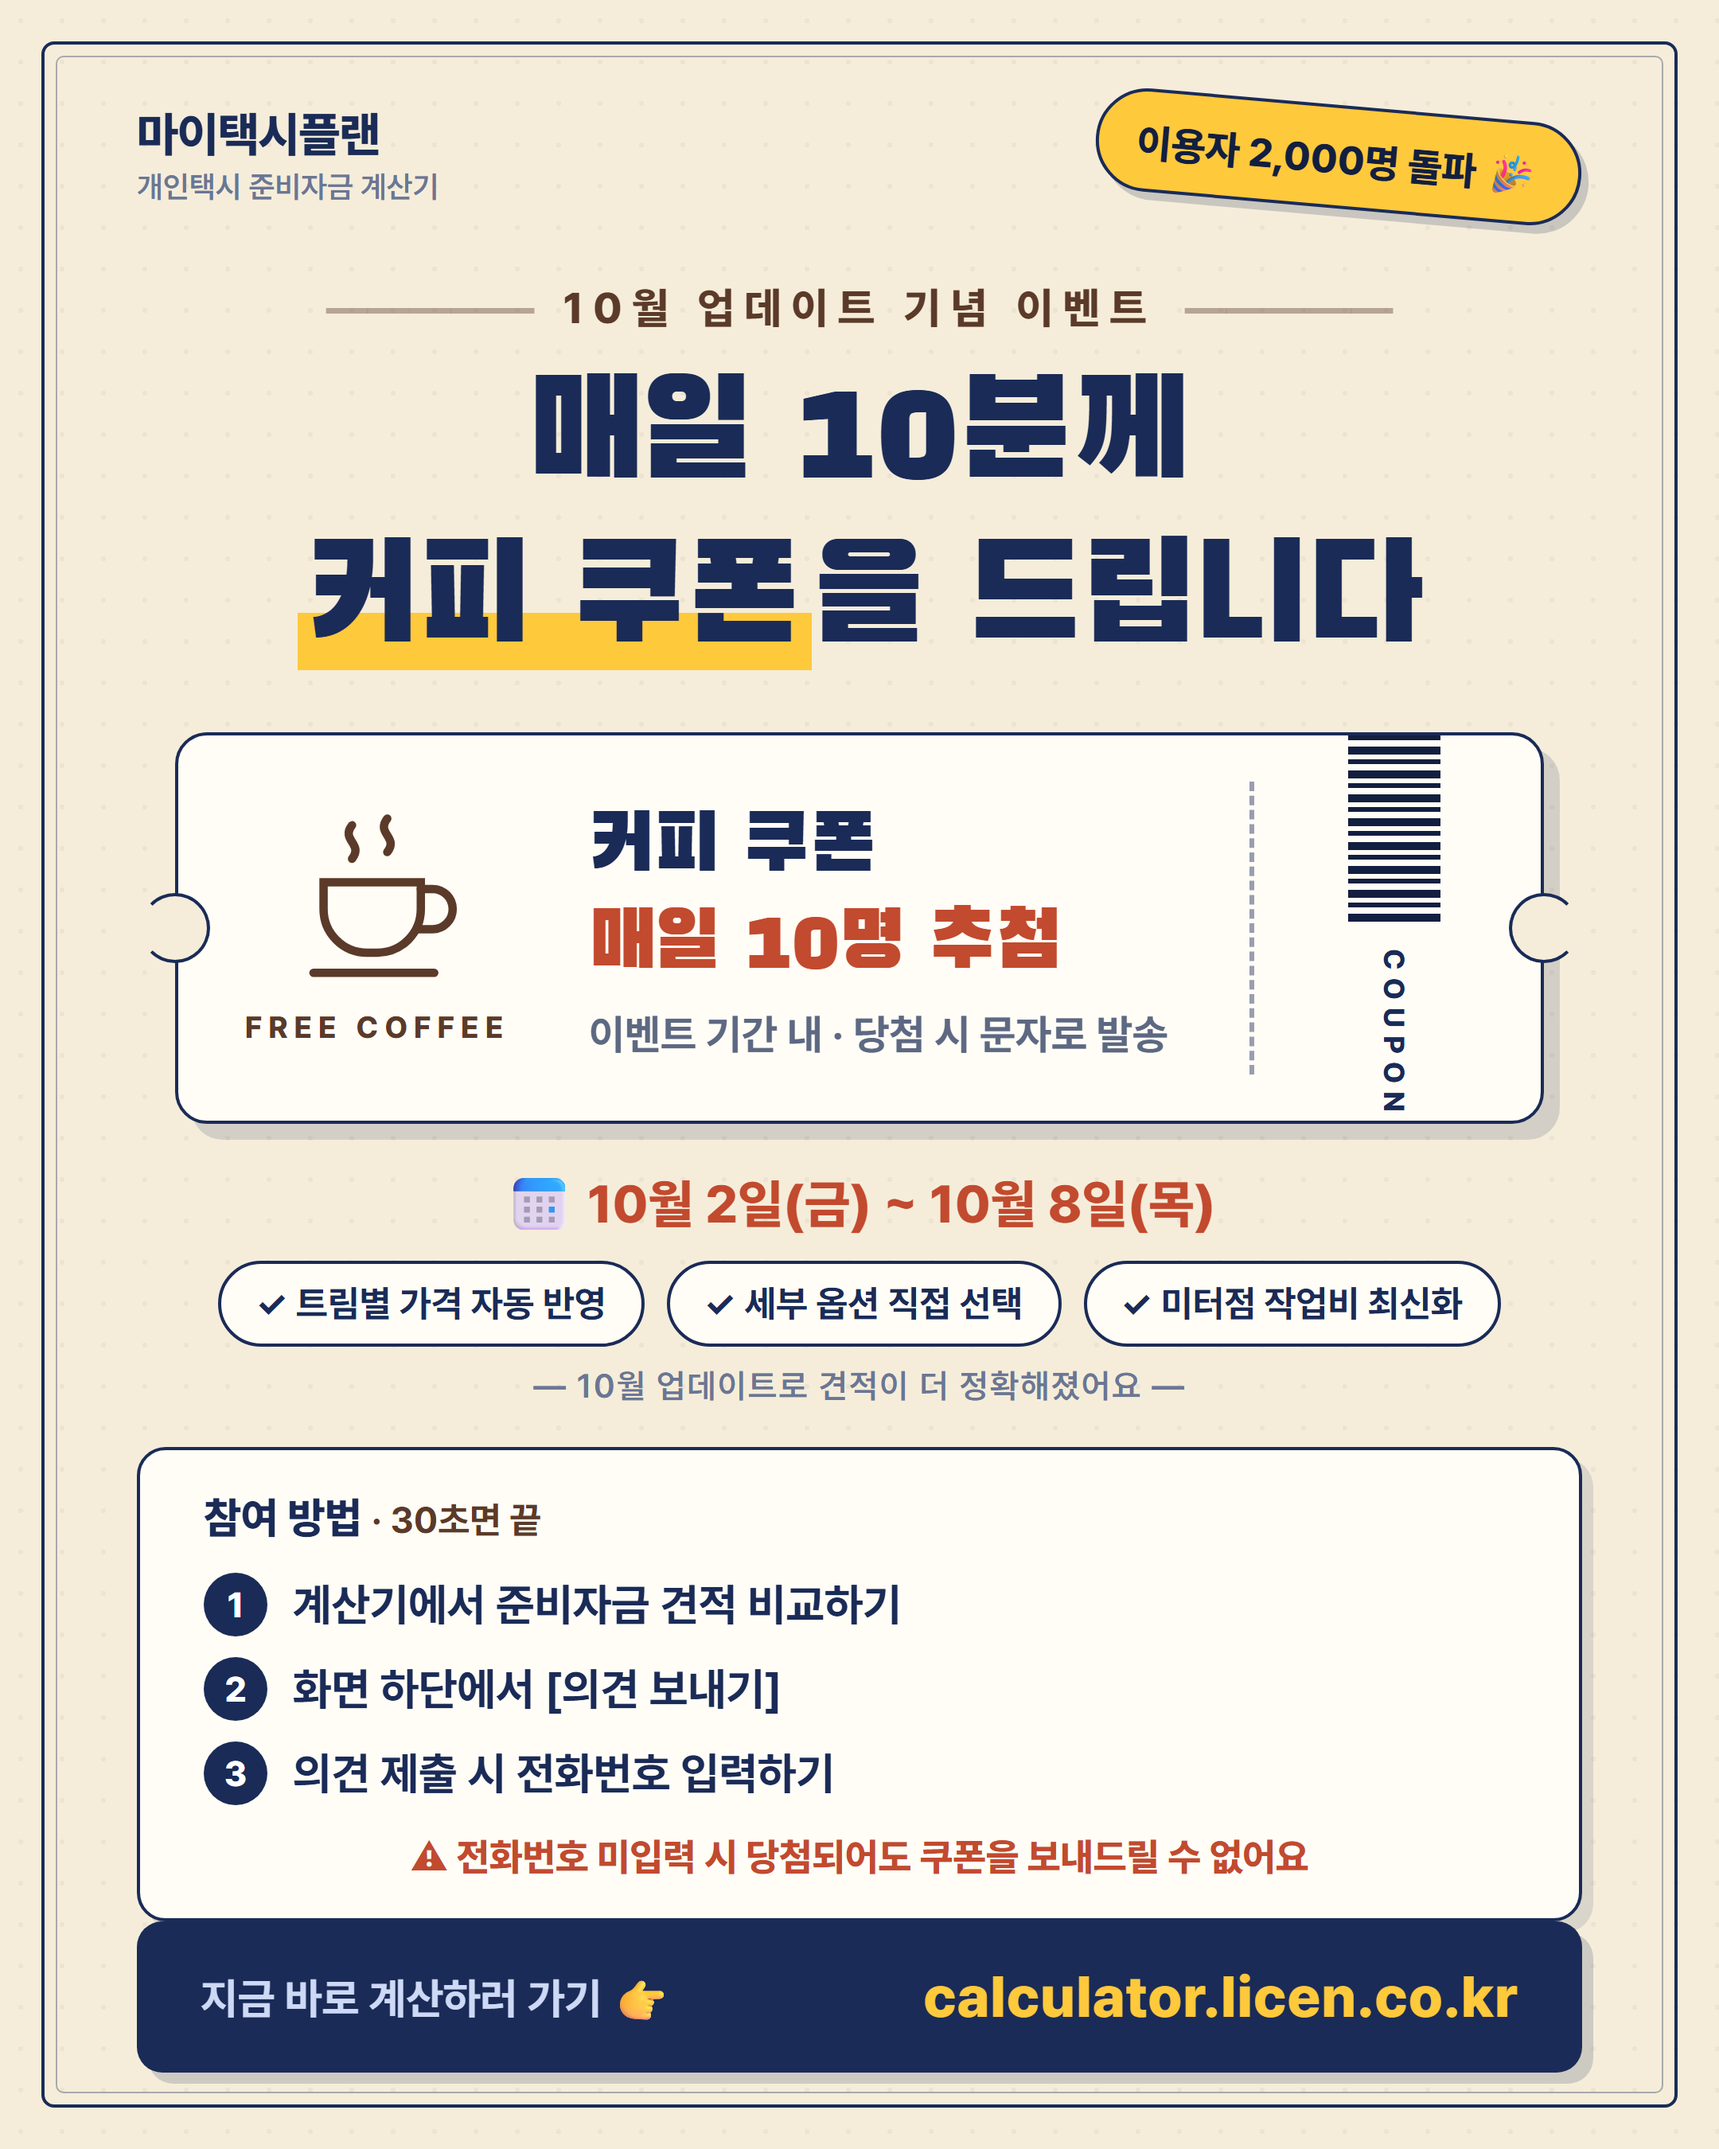
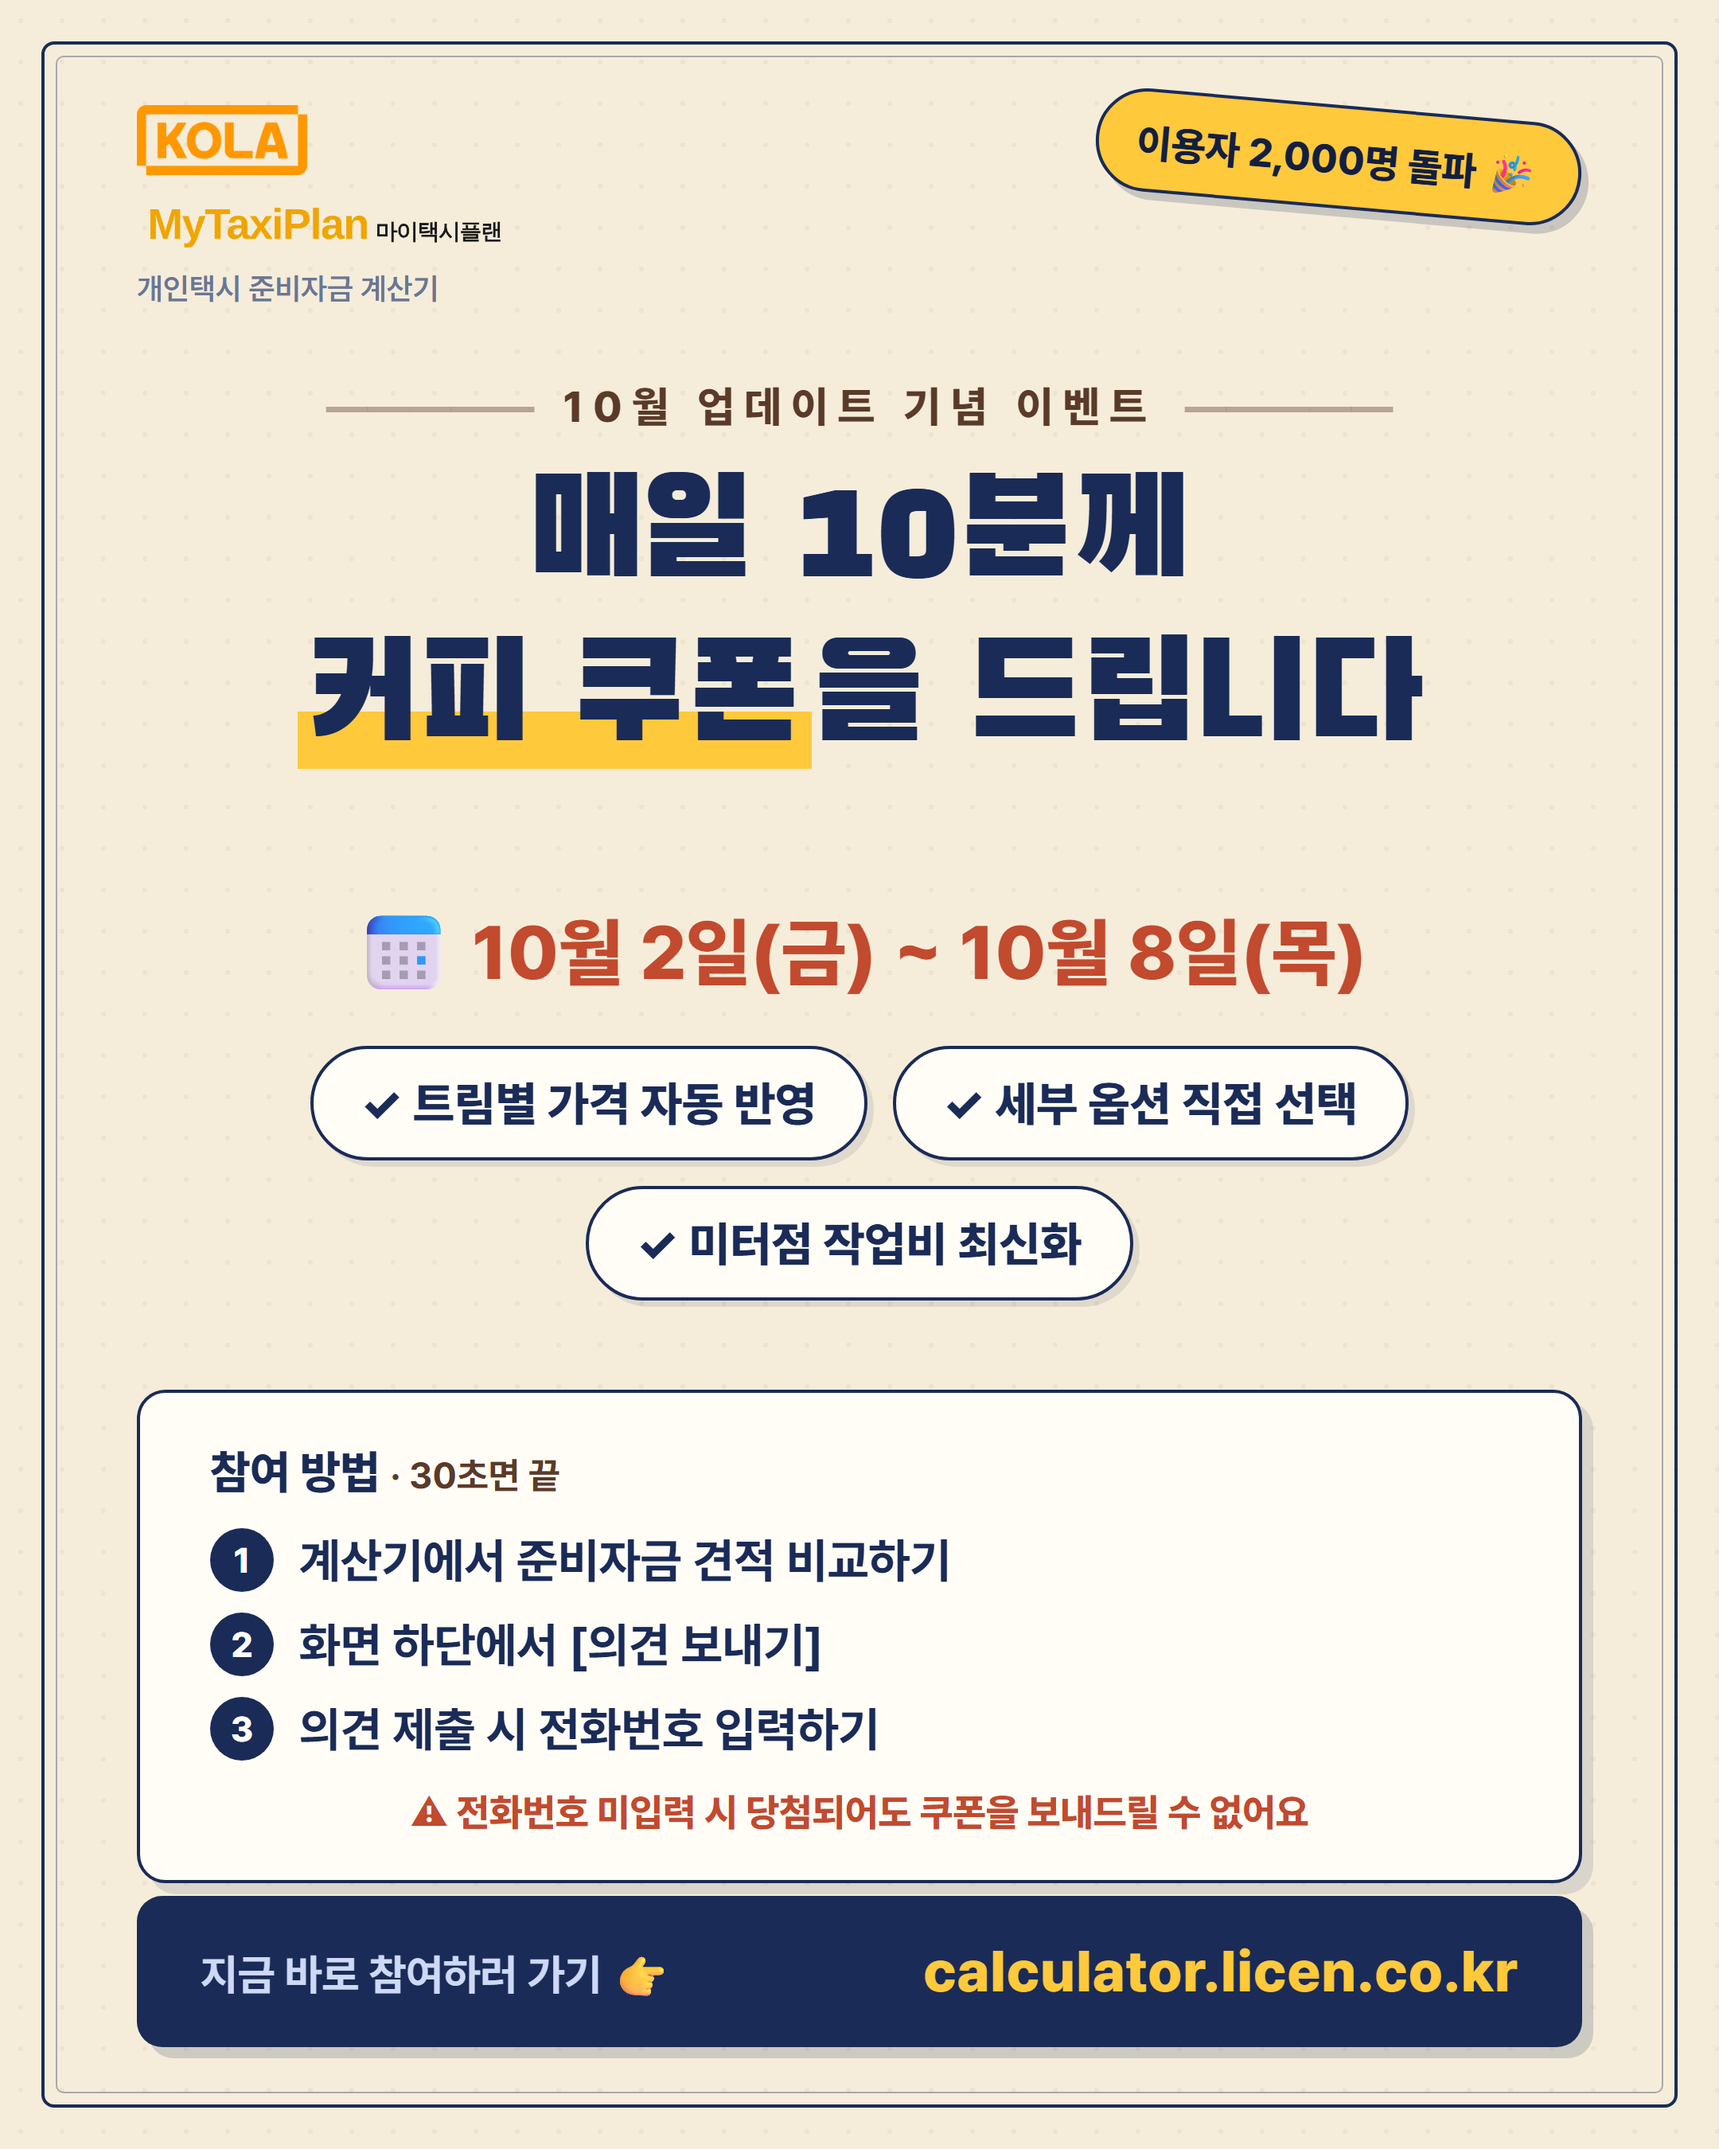
포스터 수정: KOLA·브랜드 로고 적용, 쿠폰 티켓 제거, 기간·업데이트 확대, CTA 문구

diff --git a/promo/2026-10_커피쿠폰_이벤트_포스터.html b/promo/2026-10_커피쿠폰_이벤트_포스터.html
@@ -25,7 +25,7 @@
   /* 상단 */
   .top{display:flex;justify-content:space-between;align-items:flex-start;}
   .logo{font-weight:800;font-size:30px;letter-spacing:-.5px;}
-  .logo small{display:block;font-size:19px;font-weight:600;color:#6b7694;margin-top:4px;letter-spacing:0;}
+  .logo small{display:block;font-size:19px;font-weight:600;color:#6b7694;margin-top:10px;letter-spacing:0;}
   .sticker{
     transform:rotate(5deg);background:var(--yellow);color:var(--navy-d);
     font-weight:800;font-size:25px;padding:14px 24px;border-radius:999px;
@@ -62,27 +62,27 @@
   .barcode{width:58px;height:120px;background:repeating-linear-gradient(to bottom,var(--navy-d) 0 3px,transparent 3px 7px,var(--navy-d) 7px 12px,transparent 12px 15px);}
 
   /* 기간 · 업데이트 */
-  .period{margin-top:26px;text-align:center;font-size:33px;font-weight:800;}
+  .period{margin-top:72px;text-align:center;font-size:47px;font-weight:800;}
   .period .d{color:var(--red);}
-  .chips{margin-top:16px;display:flex;justify-content:center;gap:14px;flex-wrap:wrap;}
+  .chips{margin-top:30px;display:flex;justify-content:center;gap:16px;flex-wrap:wrap;}
   .chip{
     border:2px solid var(--navy);border-radius:999px;background:#fffdf6;
-    font-size:23px;font-weight:700;padding:11px 22px;color:var(--navy);
+    font-size:30px;font-weight:800;padding:16px 30px;color:var(--navy);box-shadow:4px 4px 0 rgba(26,43,87,.1);
   }
   .chip b{color:var(--brown);}
   .chips-cap{margin-top:12px;text-align:center;font-size:21px;font-weight:600;color:#6b7694;letter-spacing:1px;}
 
   /* 참여 방법 */
   .how{
-    margin-top:26px;background:#fffdf6;border:2.5px solid var(--navy);border-radius:18px;
-    padding:26px 40px 24px;box-shadow:7px 7px 0 rgba(26,43,87,.12);
+    margin-top:56px;background:#fffdf6;border:2.5px solid var(--navy);border-radius:18px;
+    padding:32px 44px 28px;box-shadow:7px 7px 0 rgba(26,43,87,.12);
   }
-  .how h3{font-size:27px;font-weight:800;margin-bottom:18px;}
+  .how h3{font-size:29px;font-weight:800;margin-bottom:18px;}
   .how h3 span{color:var(--brown);font-size:23px;font-weight:700;}
   .row{display:flex;align-items:center;gap:16px;margin-bottom:13px;}
   .row:last-of-type{margin-bottom:0;}
   .n{flex:0 0 40px;height:40px;border-radius:50%;background:var(--navy);color:#fff;font-weight:800;font-size:22px;display:flex;align-items:center;justify-content:center;}
-  .row .t{font-size:28px;font-weight:700;}
+  .row .t{font-size:30px;font-weight:700;}
   .warn{margin-top:18px;font-size:24px;font-weight:800;color:var(--red);text-align:center;}
 
   /* 하단 */
@@ -99,31 +99,12 @@
   <div class="frame"></div>
   <div class="wrap">
     <div class="top">
-      <div class="logo">마이택시플랜<small>개인택시 준비자금 계산기</small></div>
+      <div class="logo"><img src="logo/logo_kola.png" style="height:44px;display:block;"><img src="logo/logo_brand_light.png" style="height:38px;display:block;margin-top:12px;"><small>개인택시 준비자금 계산기</small></div>
       <div class="sticker">이용자 2,000명 돌파 🎉</div>
     </div>
 
     <div class="kicker">10월 업데이트 기념 이벤트</div>
     <div class="head">매일 10분께<br><span class="hl">커피 쿠폰</span>을 드립니다</div>
-
-    <div class="ticket">
-      <div class="hole l"></div><div class="hole r"></div>
-      <div class="t-left">
-        <svg width="128" height="118" viewBox="0 0 120 112" fill="none" stroke="#5b3a29" stroke-width="5" stroke-linecap="round">
-          <path d="M45 8c-7 9 7 11 0 20"/><path d="M66 4c-7 9 7 11 0 20"/>
-          <path d="M28 42h58v16a26 26 0 0 1-26 26h-6a26 26 0 0 1-26-26z"/>
-          <path d="M86 46h7a12 12 0 0 1 0 24h-9"/>
-          <path d="M22 96h72"/>
-        </svg>
-        <div class="fc">FREE COFFEE</div>
-      </div>
-      <div class="t-mid">
-        <div class="big">커피 쿠폰<br><em>매일 10명 추첨</em></div>
-        <div class="sub">이벤트 기간 내 · 당첨 시 문자로 발송</div>
-      </div>
-      <div class="t-cut"></div>
-      <div class="t-right"><div class="barcode"></div><div class="co">COUPON</div></div>
-    </div>
 
     <div class="period">📅 <span class="d">10월 2일(금) ~ 10월 8일(목)</span></div>
 
@@ -132,7 +113,6 @@
       <div class="chip">✓ 세부 옵션 직접 선택</div>
       <div class="chip">✓ 미터점 작업비 최신화</div>
     </div>
-    <div class="chips-cap">— 10월 업데이트로 견적이 더 정확해졌어요 —</div>
 
     <div class="how">
       <h3>참여 방법 <span>· 30초면 끝</span></h3>
@@ -143,7 +123,7 @@
     </div>
 
     <div class="cta">
-      <div class="go">지금 바로 계산하러 가기 👉</div>
+      <div class="go">지금 바로 참여하러 가기 👉</div>
       <div class="url">calculator.licen.co.kr</div>
     </div>
   </div>
